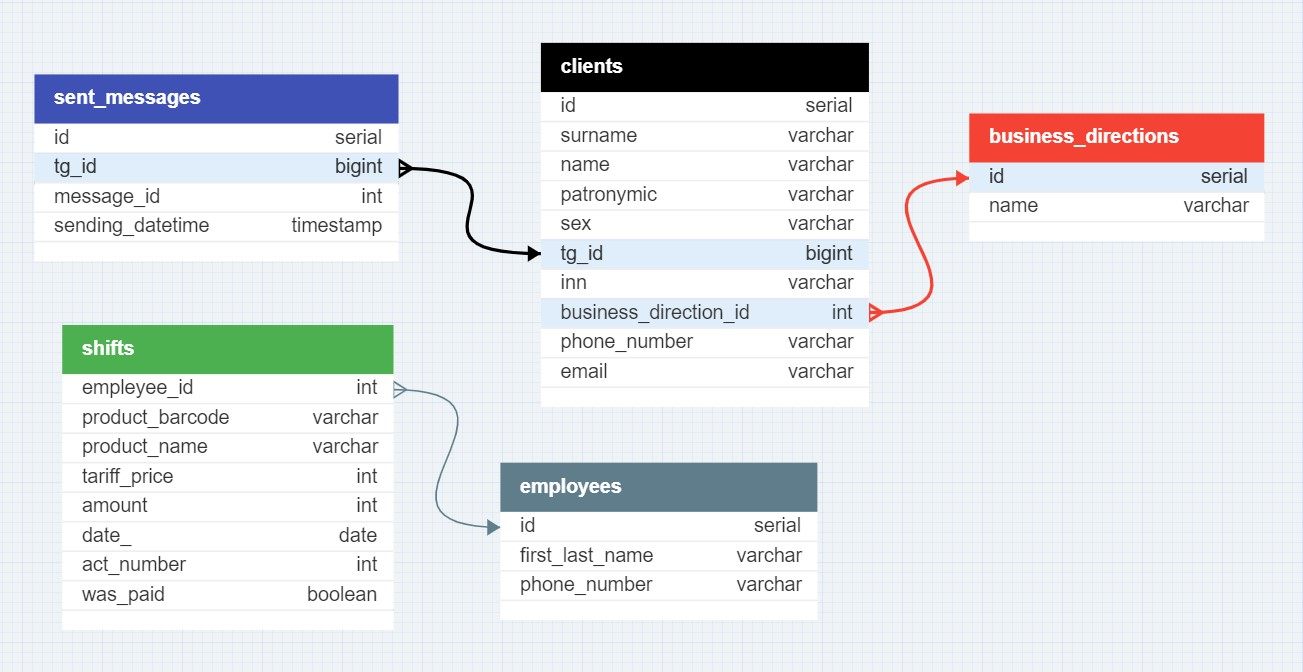
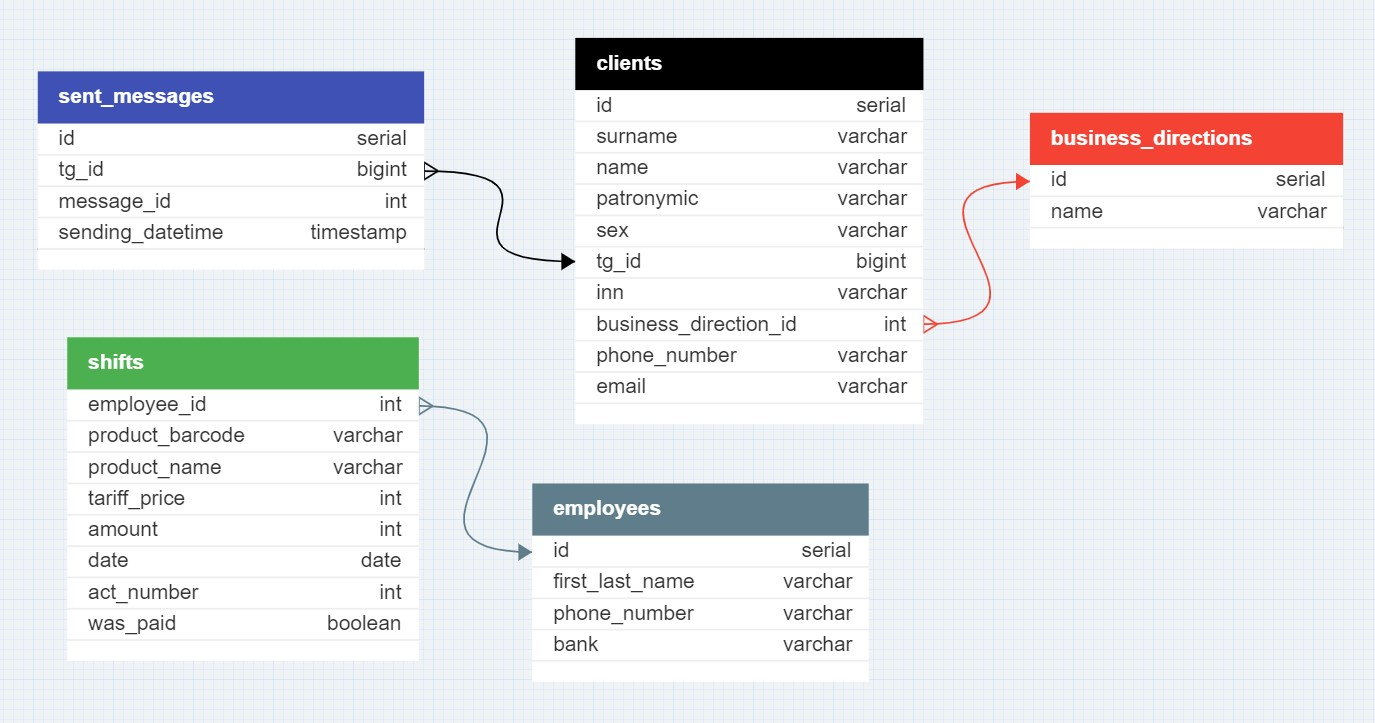
added bank column in employees table & fixed bug in reading shifts file

diff --git a/main.py b/main.py
@@ -256,11 +256,11 @@ async def handle_callback(update: Update, context: ContextTypes.DEFAULT_TYPE):
                     set_group_status('accountant', Status_MAIN)
                     return
 
-            date, first_last_name, phone_number, act_number, debt = general_info
+            date, first_last_name, phone_number, act_number, bank, debt = general_info
             CURRENT_DEBT = {'date': date, 'phone_number': phone_number, 'act_number': act_number}
             debt = f"{debt:_}".replace('_', '.') + ",00 ₽"
             msg = f'Дата задолженности: {date.strftime("%d.%m.%Y")}\nАкт: {act_number}\nСотрудник: {first_last_name}\n' + \
-                  f'Телефон: {prettify_phone_number(phone_number)}\nНеобходимо заплатить: {debt}'
+                  f'Телефон: {prettify_phone_number(phone_number)}\nБанк: {bank.capitalize()}\nНеобходимо заплатить: {debt}'
             msg += f'\n\nУпакованные товары:'
             product_no = 1
             for product in specific_info:
@@ -269,7 +269,7 @@ async def handle_callback(update: Update, context: ContextTypes.DEFAULT_TYPE):
                 product_no += 1
             await context.bot.send_message(GROUP_ID, msg, reply_markup=InlineKeyboardMarkup(PAY_SALARIES_INLINE_KEYBOARD))
 
-    elif ACCOUNTANT_GROUP_STATUS == Status_PRESSING_BUTTON_TO_DECIDE_WHETHER_TO_PAY_DEBTS:
+    elif ACCOUNTANT_GROUP_STATUS == Status_PRESSING_BUTTON_TO_DECIDE_WHETHER_TO_PAY_SALARIES:
         GROUP_ID = ACCOUNTANT_GROUP_ID
         assert query.data == "не сейчас" or query.data == "оплатить"
         if query.data == "не сейчас":
@@ -279,11 +279,11 @@ async def handle_callback(update: Update, context: ContextTypes.DEFAULT_TYPE):
             CURRENT_OFFSET = 0
             set_group_status('accountant', Status_PRESSING_BUTTON_WHILE_PAYING_SALARIES)
             general_info, specific_info = db.get_next_debt_to_pay()
-            date, first_last_name, phone_number, act_number, debt = general_info
+            date, first_last_name, phone_number, act_number, bank, debt = general_info
             CURRENT_DEBT = {'date': date, 'phone_number': phone_number, 'act_number': act_number}
             debt = f"{debt:_}".replace('_', '.') + ",00 ₽"
             msg = f'Дата задолженности: {date.strftime("%d.%m.%Y")}\nАкт: {act_number}\nСотрудник: {first_last_name}\n' + \
-                  f'Телефон: {prettify_phone_number(phone_number)}\nНеобходимо заплатить: {debt}'
+                  f'Телефон: {prettify_phone_number(phone_number)}\nБанк: {bank.capitalize()}\nНеобходимо заплатить: {debt}'
             msg += f'\n\nУпакованные товары:'
             product_no = 1
             for product in specific_info:
@@ -362,8 +362,8 @@ async def handle_file(update: Update, context: ContextTypes.DEFAULT_TYPE):
                 for salary in unpaid_shifts[day]:
                     msg += f"\n{no}) {salary['person']} -> " + f"{salary['debt']:_}".replace('_', '.') + ',00 ₽'
                     no += 1
-            if ACCOUNTANT_GROUP_STATUS in [Status_MAIN, Status_PRESSING_BUTTON_TO_DECIDE_WHETHER_TO_PAY_DEBTS]:
-                set_group_status('accountant', Status_PRESSING_BUTTON_TO_DECIDE_WHETHER_TO_PAY_DEBTS)
+            if ACCOUNTANT_GROUP_STATUS in [Status_MAIN, Status_PRESSING_BUTTON_TO_DECIDE_WHETHER_TO_PAY_SALARIES]:
+                set_group_status('accountant', Status_PRESSING_BUTTON_TO_DECIDE_WHETHER_TO_PAY_SALARIES)
                 buttons = [[InlineKeyboardButton('Не сейчас 🧑💻', callback_data='не сейчас'),
                             InlineKeyboardButton('Оплатить 🏃♂', callback_data='оплатить')]]
                 await context.bot.send_message(ACCOUNTANT_GROUP_ID, msg, reply_markup=InlineKeyboardMarkup(buttons))
@@ -571,11 +571,11 @@ async def command_pay_salaries(update: Update, context: ContextTypes.DEFAULT_TYP
     CURRENT_OFFSET = 0
     set_group_status('accountant', Status_PRESSING_BUTTON_WHILE_PAYING_SALARIES)
     general_info, specific_info = db.get_next_debt_to_pay()
-    date, first_last_name, phone_number, act_number, debt = general_info
+    date, first_last_name, phone_number, act_number, bank, debt = general_info
     CURRENT_DEBT = {'date': date, 'phone_number': phone_number, 'act_number': act_number}
     debt = f"{debt:_}".replace('_', '.') + ",00 ₽"
     msg = f'Дата задолженности: {date.strftime("%d.%m.%Y")}\nАкт: {act_number}\nСотрудник: {first_last_name}\n' + \
-          f'Телефон: {prettify_phone_number(phone_number)}\nНеобходимо заплатить: {debt}'
+          f'Телефон: {prettify_phone_number(phone_number)}\nБанк: {bank.capitalize()}\nНеобходимо заплатить: {debt}'
     msg += f'\n\nУпакованные товары:'
     product_no = 1
     for product in specific_info:
@@ -765,7 +765,7 @@ def set_group_status(group: str, status: str):
                status == Status_PRESSING_CLIENT_TO_DELETE_ONE or \
                status == Status_PRESSING_CLIENT_TO_DELETE_LAST_MESSAGE or \
                status == Status_PRESSING_BUTTON_WHILE_PAYING_SALARIES or \
-               status == Status_PRESSING_BUTTON_TO_DECIDE_WHETHER_TO_PAY_DEBTS
+               status == Status_PRESSING_BUTTON_TO_DECIDE_WHETHER_TO_PAY_SALARIES
         ACCOUNTANT_GROUP_STATUS = status
 
 
@@ -802,7 +802,7 @@ if __name__ == '__main__':
     Status_PRESSING_CLIENT_TO_DELETE_ONE = 'pressing_client_to_delete_one'
     Status_PRESSING_CLIENT_TO_DELETE_LAST_MESSAGE = 'pressing_client_to_delete_last_message'
     Status_PRESSING_BUTTON_WHILE_PAYING_SALARIES = 'pressing_button_while_paying_salaries'
-    Status_PRESSING_BUTTON_TO_DECIDE_WHETHER_TO_PAY_DEBTS = 'pressing_button_to_decide_whether_to_pay_debts'
+    Status_PRESSING_BUTTON_TO_DECIDE_WHETHER_TO_PAY_SALARIES = 'pressing_button_to_decide_whether_to_pay_debts'
 
     # Глобальные переменные
     ADMIN_GROUP_STATUS = ACCOUNTANT_GROUP_STATUS = Status_MAIN

diff --git a/database.py b/database.py
@@ -1,7 +1,6 @@
 import psycopg2
 import pandas as pd
 from datetime import date, datetime
-import math
 
 
 class Database:
@@ -169,28 +168,38 @@ class Database:
     def write_payments_data(self, payments_file_path: str):
         try:
             df = pd.read_excel(payments_file_path, header=None)
-            shift_date = datetime.strptime(payments_file_path[payments_file_path.find('/') + 1:payments_file_path.rfind('.')], '%d%m%y').date()
-            people = df.iloc[:2, 4:].copy()
+            shift_date = datetime.strptime(
+                payments_file_path[payments_file_path.find('/') + 1:payments_file_path.rfind('.')], '%d%m%y').date()
+            people = df.iloc[:3, 4:].copy()
             people.dropna(axis='columns', how='all', inplace=True)
             if people.empty:
                 error_log = 'Нет ни людей, ни телефонов 😔'
                 return error_log
-            people_without_phone_numbers = []
-            for i in range(people.shape[0]):
-                if math.isnan(people.iloc[0, i]):
-                    people_without_phone_numbers.append(people.iloc[1, i])
+            people_without_phone_numbers, people_without_banks = [], []
+            for i in range(people.shape[1]):
+                if type(people.iloc[0, i]) is float:
+                    people_without_phone_numbers.append(people.iloc[2, i])
+                if type(people.iloc[1, i]) is float:
+                    people_without_banks.append(people.iloc[2, i])
             if people_without_phone_numbers:
                 if len(people_without_phone_numbers) == 1:
                     return f'Нет номера телефона у сотрудника по имени {people_without_phone_numbers[0]}'
                 else:
                     return f"Нет номеров телефона у следующих сотрудников: {', '.join(people_without_phone_numbers)}"
+            if people_without_banks:
+                if len(people_without_banks) == 1:
+                    return f'Нет названия банка у сотрудника по имени {people_without_banks[0]}'
+                else:
+                    return f"Нет названия банка у следующих сотрудников: {', '.join(people_without_banks)}"
+
             employee_ids = []
             act_numbers = []
             for i in list(people.columns):
                 phone_number = self.__normalize_phone_number(str(people[i][0]))
-                first_last_name = people[i][1]
+                bank = people[i][1]
+                first_last_name = people[i][2]
                 if not self.__employee_exists(phone_number, employee_ids):
-                    query = f"INSERT INTO employees (first_last_name, phone_number) VALUES('{first_last_name}', '{phone_number}') RETURNING id;"
+                    query = f"INSERT INTO employees (first_last_name, phone_number, bank) VALUES('{first_last_name}', '{phone_number}', '{bank}') RETURNING id;"
                     self.curr.execute(query)
                     employee_ids.append(self.curr.fetchall()[0][0])
                 query = f"SELECT MAX(act_number) FROM shifts WHERE employee_id = {employee_ids[-1]} AND date = '{str(shift_date)}';"
@@ -201,12 +210,12 @@ class Database:
                 else:
                     act_numbers.append(1)
 
-            goods = df.iloc[3:, :4 + len(employee_ids)].copy()
+            goods = df.iloc[4:, :4 + len(employee_ids)].copy()
             for i in range(4, 4 + len(employee_ids)):
                 goods[i].fillna(0, inplace=True)
             for row in range(goods.shape[0]):
                 good_info = list(goods.iloc[row, :][0:3])
-                if math.isnan(good_info[0]) and math.isnan(good_info[1]) and math.isnan(good_info[2]):
+                if type(good_info[0]) is float and type(good_info[1]) is float and type(good_info[2]) is float:
                     break
                 product_barcode = str(good_info[0]) if good_info[0] else ''
                 product_name = str(good_info[2])
@@ -274,13 +283,14 @@ class Database:
         else:
             return None, None
 
-        query = "SELECT phone_number, product_barcode, product_name, tariff_price, amount FROM shifts " + \
+        query = "SELECT phone_number, bank, product_barcode, product_name, tariff_price, amount FROM shifts " + \
                 "JOIN employees e ON employee_id = e.id " + \
                 f"WHERE date = '{general_info[0]}' AND first_last_name = '{general_info[1]}' AND act_number = {general_info[2]};"
         self.curr.execute(query)
         specific_info = self.curr.fetchall()
+        general_info.insert(3, specific_info[0][1])
         general_info.insert(2, specific_info[0][0])
-        specific_info = list(map(lambda x: list(x[1:]), specific_info))
+        specific_info = list(map(lambda x: list(x[2:]), specific_info))
         return general_info, specific_info
 
     def mark_shift_as_paid(self, shift_date: date, phone_number: str, act_number: int):
